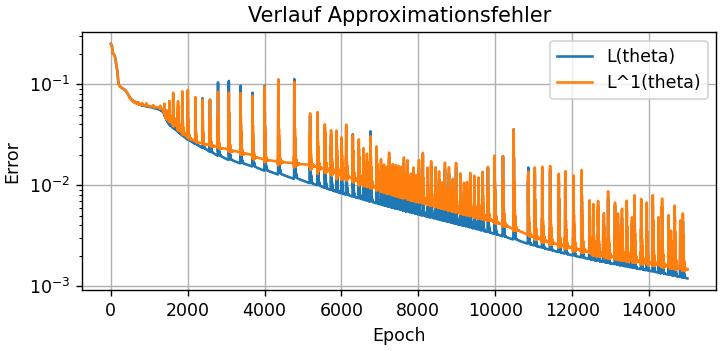
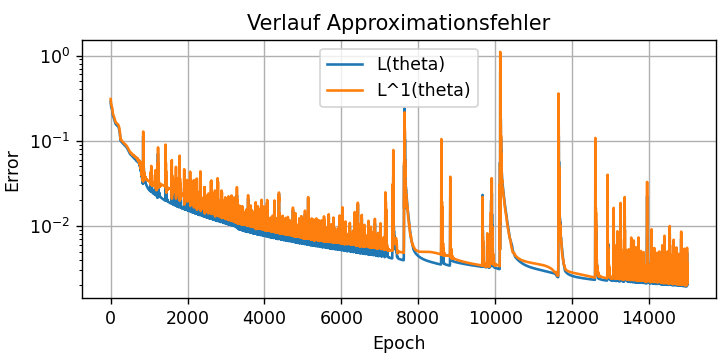
update

diff --git a/buch/papers/neuronal/2_beispiel.tex b/buch/papers/neuronal/2_beispiel.tex
@@ -92,7 +92,7 @@ Die Datensätze $A$ und $B$, bei dem die Anfangsbedingung bzw. die Randbedingung
 Je $\frac{1}{5}$ der Datenpunkte wurden für die Funktion $L^1(\vartheta)$ abgetrennt und nicht im Optimierungsalgorithmus verwendet (siehe Abschnitt \ref{neuronal:subsection:qualitaetsbewertung}).
 
 Der Optimierungsalgorithmus \ref{neuronal:gradient_descent} hat 15'000 Schleifendurchläufe durchlaufen um die Parameter für die Approximierung zu finden.
-Die Werte von $L(\vartheta)$ und $L^1(\vartheta)$ am Ende der Optimierung sind 0.001189 und 0.001465.
+Die Werte von $L(\vartheta)$ und $L^1(\vartheta)$ am Ende der Optimierung sind 0.003328 und 0.003449.
 Somit sind die mittleren Approximationsfehler des Netzwerks sehr tief.
 Der Verlauf der Approximationsfehlers während der Optimierung ist in der Abbildung \ref{fig:fehler_burgers} dargestellt.
 
